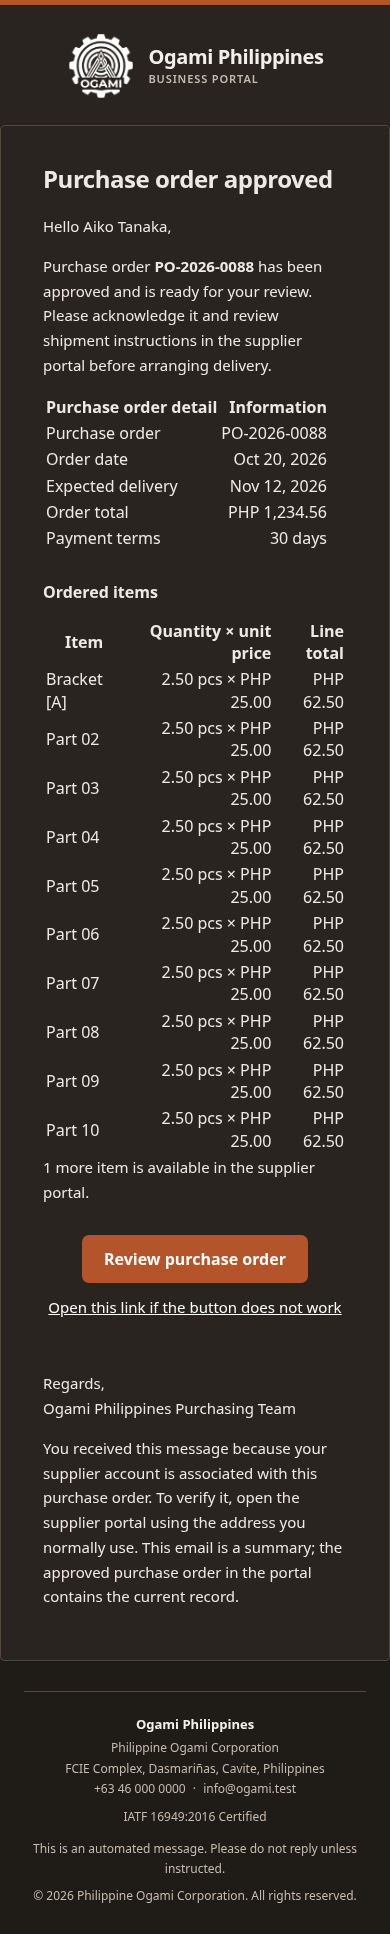
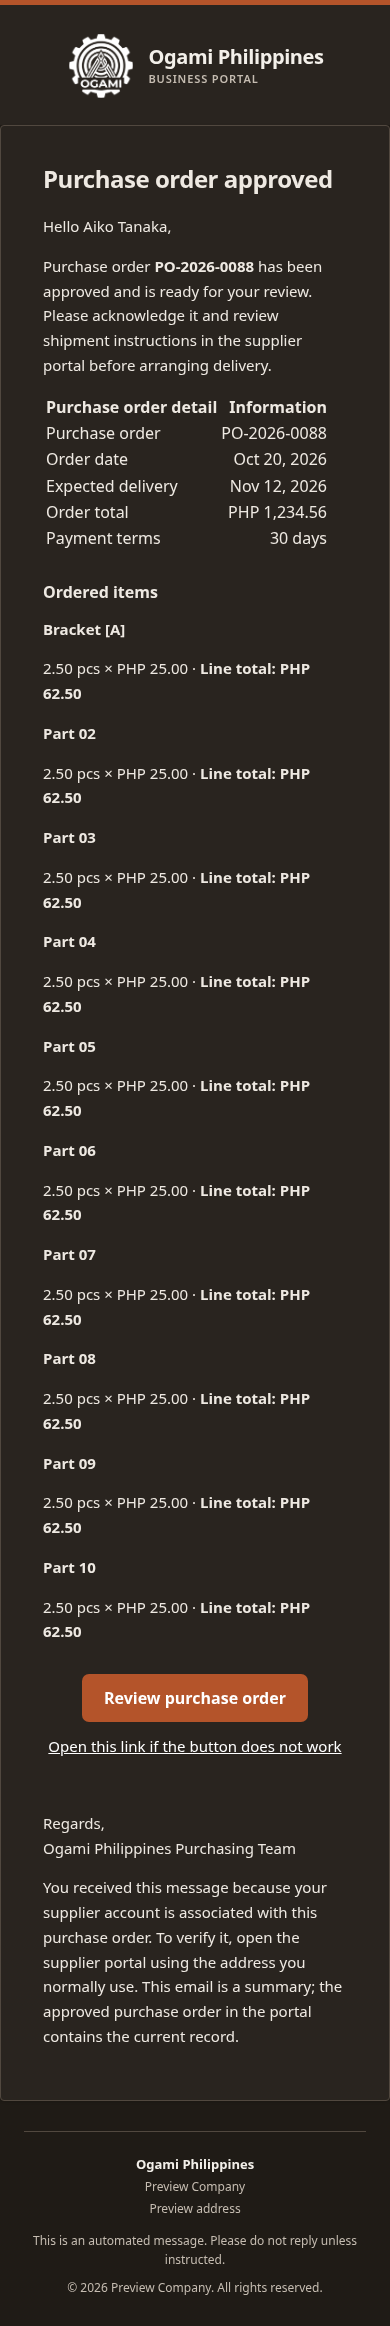
docs(email): refresh supplier PO previews

diff --git a/docs/emails/E-018-supplier-po-published.md b/docs/emails/E-018-supplier-po-published.md
@@ -16,6 +16,6 @@ The button opens an authenticated portal page; it does not change state. The tem
 
 `SupplierPurchaseOrderMailTest` plus existing `FeatureEmailIntegrationTest` publication case: 2 passed / 27 assertions. Tests check event-time values after source mutations, line-item limit, system formatting, portal URL, settings-backed identity, safe output, HTML size, and queue integration. Mailer forced to `array`; no real email sent.
 
-The prior rendered HTML was 33,141 bytes. Its screenshots showed the three-column item table wrapping tightly on mobile; the template now stacks item details. Those screenshots predate commit `a18dde45` and must be regenerated before sign-off. This does not verify Gmail, Outlook, Apple Mail, Yahoo, delivery, or inbox placement. See [screenshots](screenshots/).
+After commit `a18dde45`, rendered HTML is 34,357 bytes using a network-isolated PHP container, synthetic PO and branding fixtures, and `MAIL_MAILER=array`; no email was sent. Chromium captures at 1440px/390px in light/dark show the stacked item layout, readable CTA, and document width equal to the viewport. The captures are [desktop light](screenshots/e018-supplier-po-published-desktop-light.png), [desktop dark](screenshots/e018-supplier-po-published-desktop-dark.png), [mobile light](screenshots/e018-supplier-po-published-mobile-light.png), and [mobile dark](screenshots/e018-supplier-po-published-mobile-dark.png). Fixture branding is not company-approved data. Browser rendering does not verify Gmail, Outlook, Apple Mail, Yahoo, provider delivery, or inbox placement.
 
 Purchasing and the accountant must review PO terms and supplier-facing wording. Supplier contact handling requires data-protection review. No legal or compliance claim is made.
